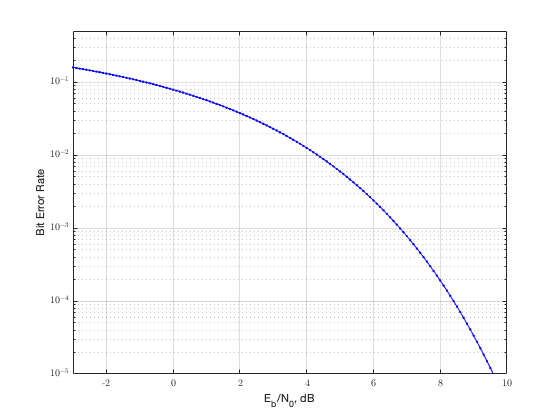
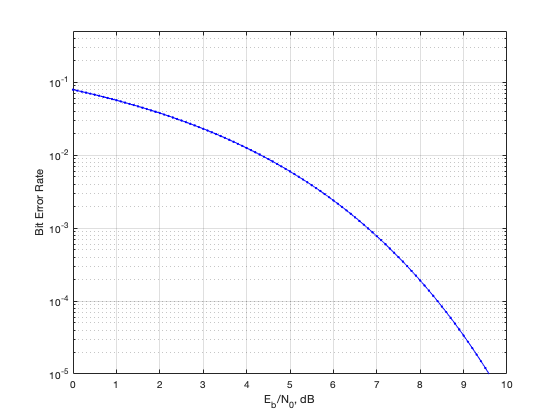
ebno starts from 0

diff --git a/hugo/static/img/ber-bpsk/ber-bpsk.m b/hugo/static/img/ber-bpsk/ber-bpsk.m
@@ -1,7 +1,7 @@
-Eb_N0_dB = [-3:0.1:10];
+Eb_N0_dB = [0:0.1:10];
 theoryBer = 0.5*erfc(sqrt(10.^(Eb_N0_dB/10)));
 semilogy(Eb_N0_dB,theoryBer,'b.-');
-axis([-3 10 10^-5 0.5]);
+axis([0 10 10^-5 0.5]);
 grid on
 xlabel('E_b/N_0, dB');
 ylabel('Bit Error Rate');
